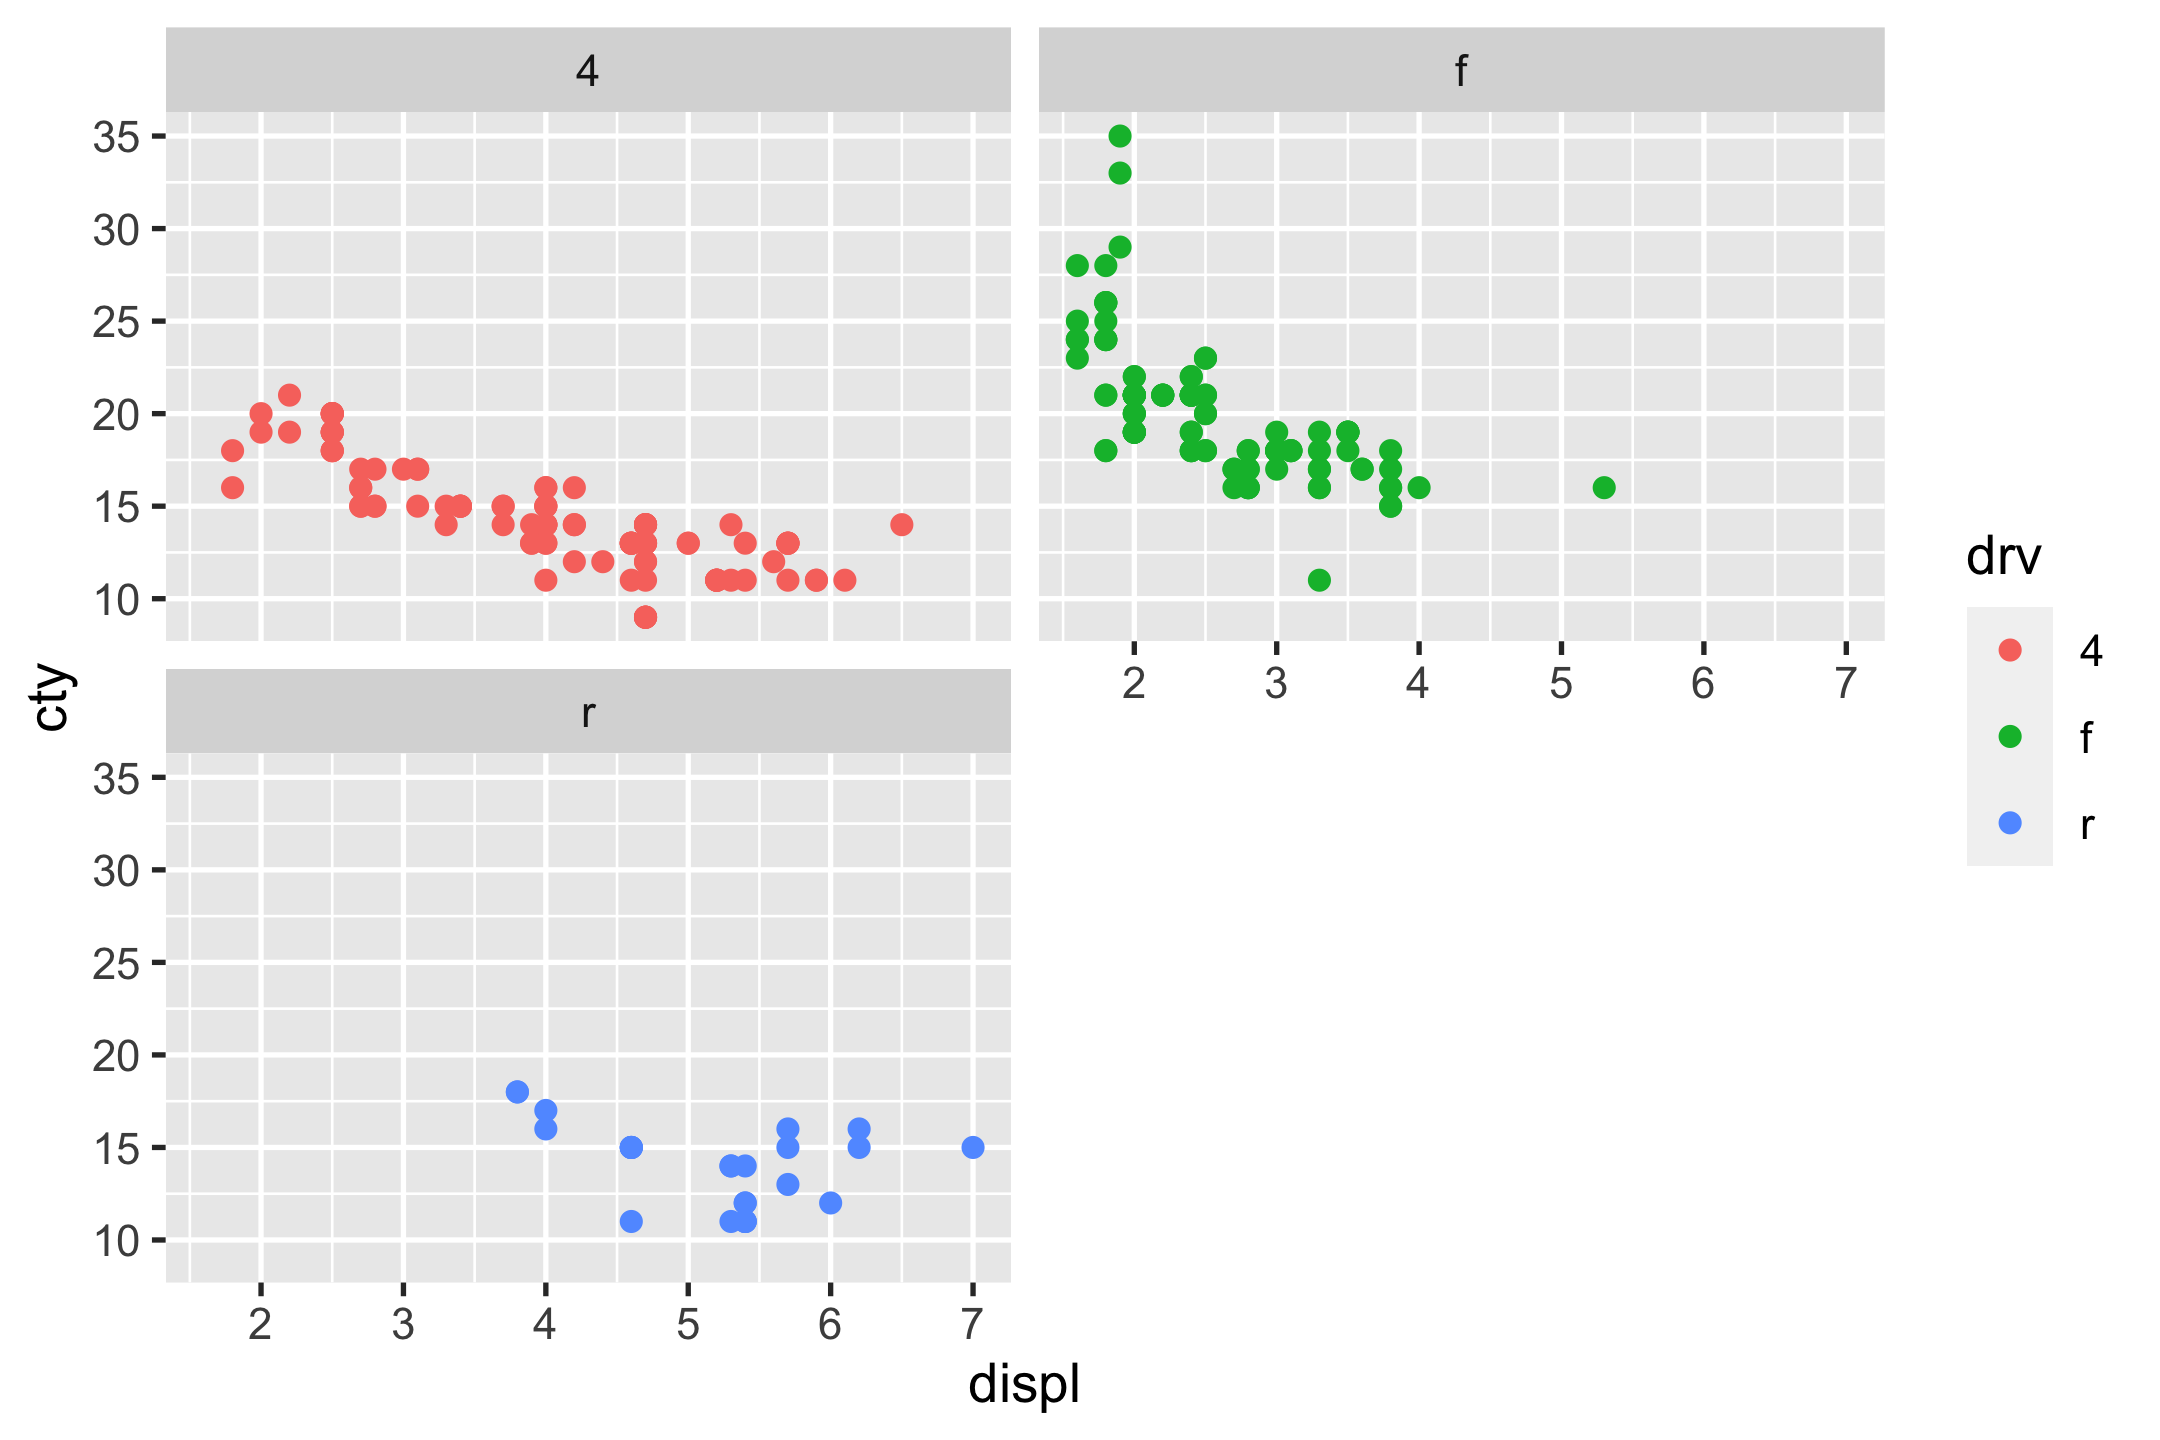
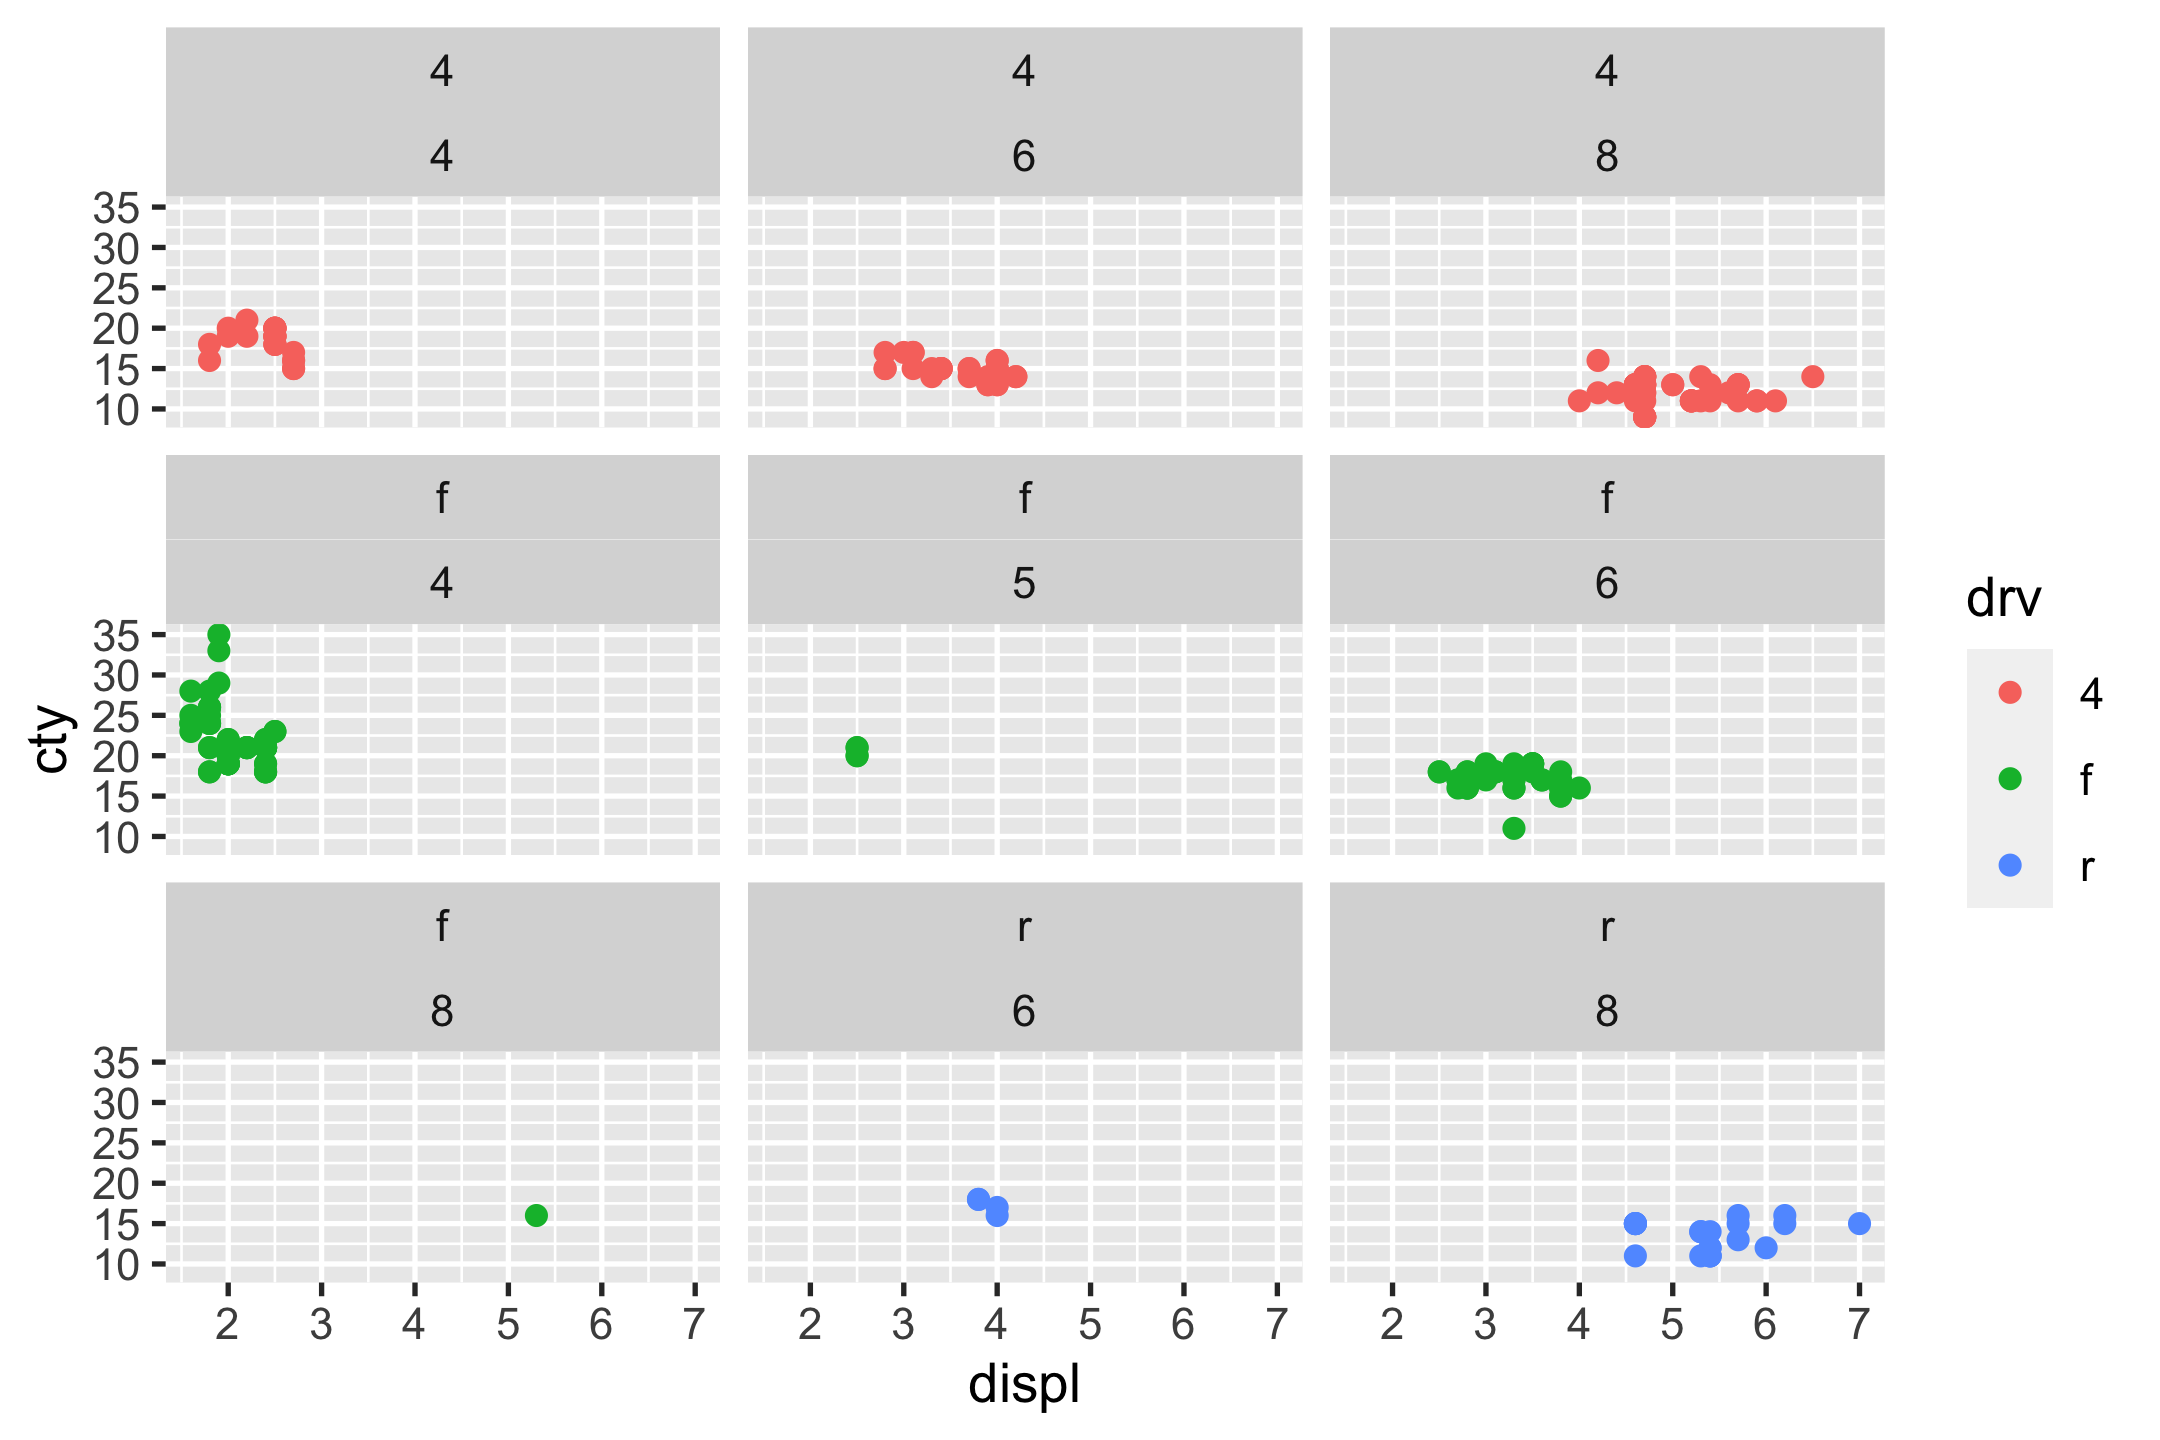
updated facet_wrap

Changed region(s): [[0.0, 0.0, 0.8995, 0.9375], [0.8995, 0.375, 0.9616, 0.4375]]

diff --git a/lectures/03-data-vis.html b/lectures/03-data-vis.html
@@ -813,8 +813,8 @@ p_mpg +
 
 ```r
 p_mpg +
-  facet_wrap(vars(drv), ncol = 2)
-  # facet_wrap(~ drv, ncol = 2)
+  facet_wrap(vars(drv, cyl), ncol = 3)
+  # facet_wrap(~ drv + cyl, ncol = 3)
 ```
 
 &lt;img src="figure/gg-facet-wrap-1.png" width="720" style="display: block; margin: auto;" /&gt;
@@ -941,6 +941,12 @@ skimr::skim(movies)
 &lt;img src="https://rstudio-education.github.io/tidyverse-cookbook/images/data-science-workflow.png" width="100%"&gt;
 ]
 ]
+
+???
+
+* There's no best single plot for the data.
+* Make as many plots as possible to get most facets of the data
+* eda: wandering around a city as a tourist
 
 ---
 
